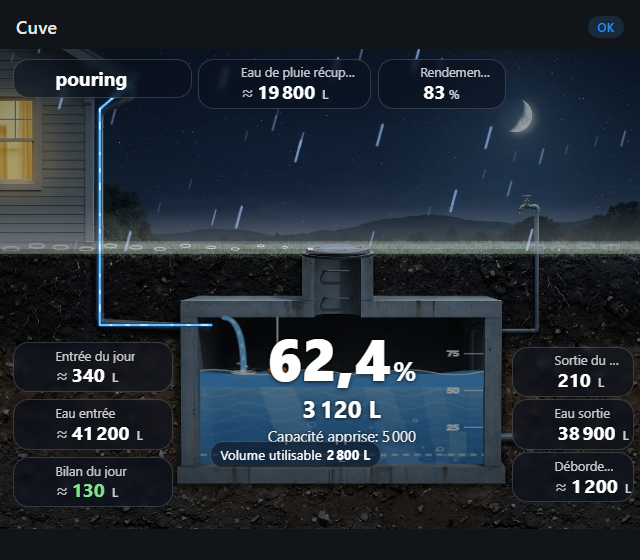
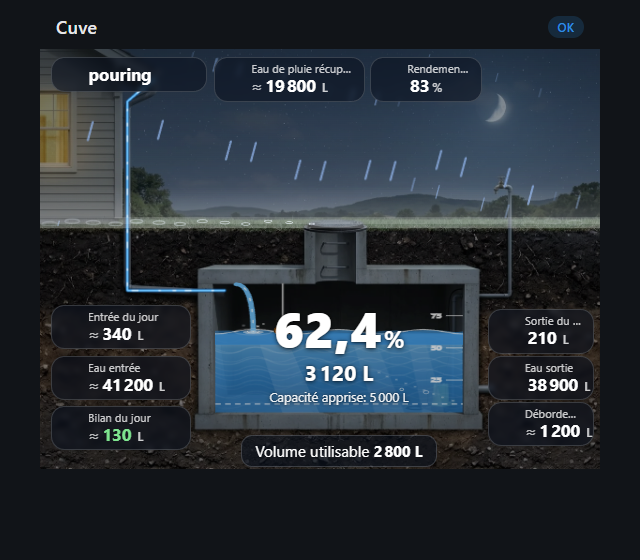
Update usable volume pill, capacity label and screenshots

diff --git a/dist/eco-water-tank-card.js b/dist/eco-water-tank-card.js
@@ -1,6 +1,6 @@
 /* Eco Water Tank card — companion for the eco_water_tank integration. No dependencies. */
 
-const CARD_VERSION = "0.02";
+const CARD_VERSION = "0.04";
 console.info(
   `%c ECO-WATER-TANK-CARD %c v${CARD_VERSION} `,
   "color: white; background: #2f8fe0; font-weight: 700; border-radius: 3px 0 0 3px;",
@@ -80,7 +80,7 @@ ha-card.mid { --tank:#e09a2f; --tank2:#ffd073; --tankd:#7a4a0c; }
 .tint-rain { opacity:0; transition:opacity 1.5s; } .rainy .tint-rain { opacity:.4; }
 .mtn { fill:var(--mtn); } .grass3 { fill:var(--grass3); }
 .night .wg { filter:brightness(.62) saturate(.9); } .dusk .wg { filter:brightness(.88); } .wg { transition:filter 2s; }
-.photo .p-wx { left:2%; top:2%; width:28%; } .photo .p-a { left:31%; top:2%; width:27%; } .photo .p-b { left:59%; top:2%; width:20%; }
+.photo .utag { font-size:2.7cqw; padding:.9cqw 2.4cqw; } .photo .p-wx { left:2%; top:2%; width:28%; } .photo .p-a { left:31%; top:2%; width:27%; } .photo .p-b { left:59%; top:2%; width:20%; }
 .photo .s-l1, .photo .s-l2, .photo .s-l3 { left:2%; width:25%; } .photo .s-l1 { top:61%; } .photo .s-l2 { top:73%; } .photo .s-l3 { top:85%; }
 .photo .s-r1, .photo .s-r2, .photo .s-r3 { left:80%; width:19%; } .photo .s-r1 { top:62%; } .photo .s-r2 { top:73%; } .photo .s-r3 { top:84%; }
 
@@ -170,7 +170,7 @@ ha-card.mid { --tank:#e09a2f; --tank2:#ffd073; --tankd:#7a4a0c; }
 .tankinfo { position:absolute; left:50.5%; top:70%; transform:translate(-50%,-50%); text-align:center; color:#fff;
   text-shadow:0 1px 5px rgba(0,0,0,.7),0 0 2px rgba(0,0,0,.6); pointer-events:none; width:24%; }
 .tankinfo .pc { font-size:9cqw; font-weight:800; line-height:1; } .tankinfo .pc small { font-size:4.2cqw; font-weight:700; margin-left:.4cqw; }
-.tankinfo .vl { font-size:3.8cqw; font-weight:700; margin-top:.8cqw; } .tankinfo .cp { font-size:2.3cqw; opacity:.92; margin-top:.4cqw; }
+.tankinfo .vl { font-size:3.8cqw; font-weight:700; margin-top:.8cqw; } .tankinfo .cp { font-size:2.3cqw; opacity:.92; margin-top:.4cqw; white-space:nowrap; margin-inline:-6cqw; }
 .utag { position:absolute; left:30%; transform:translate(0,-50%); font-size:2.1cqw; padding:.6cqw 1.5cqw; border-radius:2cqw;
   background:rgba(8,16,30,.6); color:#fff; border:1px solid rgba(255,255,255,.18); white-space:nowrap; display:none; }
 .utag b { margin-left:.8cqw; }
@@ -578,7 +578,8 @@ class EcoWaterTankCard extends HTMLElement {
     if (o.photo) {
       const [x, y, w, h] = o.tank;
       Object.assign(root.querySelector(".tankinfo").style, { left: `${x + w / 2}%`, top: `${y + h * 0.55}%` });
-      root.querySelector("[data-utag]").style.left = `${x + 1.5}%`;
+      // usable volume: pill centered just under the tank (below the outer wall, ~90.5% of the picture)
+      Object.assign(root.querySelector("[data-utag]").style, { left: `${x + w / 2}%`, top: "91.8%", transform: "translate(-50%,0)" });
     }
   }
 
@@ -729,7 +730,7 @@ class EcoWaterTankCard extends HTMLElement {
     if (usable != null && vol > 0) {
       const ly = TOP + H * (1 - (p * (1 - usable / vol)) / 100);
       ul.setAttribute("y1", ly.toFixed(1)); ul.setAttribute("y2", ly.toFixed(1)); ul.style.opacity = ".8";
-      ut.style.display = "block"; ut.style.top = `${(this._ty(ly) / (this._photo().photo ? VH : 320) * 100).toFixed(1)}%`;
+      ut.style.display = "block"; if (!this._photo().photo) ut.style.top = `${(ly / 320 * 100).toFixed(1)}%`;
       ut.innerHTML = `${this._name("usable_volume")}<b>${this._fmt(usable)} L</b>`;
     } else { ul.style.opacity = "0"; ut.style.display = "none"; }
 

diff --git a/src/eco-water-tank-card.js b/src/eco-water-tank-card.js
@@ -1,6 +1,6 @@
 /* Eco Water Tank card — companion for the eco_water_tank integration. No dependencies. */
 
-const CARD_VERSION = "0.02";
+const CARD_VERSION = "0.04";
 console.info(
   `%c ECO-WATER-TANK-CARD %c v${CARD_VERSION} `,
   "color: white; background: #2f8fe0; font-weight: 700; border-radius: 3px 0 0 3px;",
@@ -80,7 +80,7 @@ ha-card.mid { --tank:#e09a2f; --tank2:#ffd073; --tankd:#7a4a0c; }
 .tint-rain { opacity:0; transition:opacity 1.5s; } .rainy .tint-rain { opacity:.4; }
 .mtn { fill:var(--mtn); } .grass3 { fill:var(--grass3); }
 .night .wg { filter:brightness(.62) saturate(.9); } .dusk .wg { filter:brightness(.88); } .wg { transition:filter 2s; }
-.photo .p-wx { left:2%; top:2%; width:28%; } .photo .p-a { left:31%; top:2%; width:27%; } .photo .p-b { left:59%; top:2%; width:20%; }
+.photo .utag { font-size:2.7cqw; padding:.9cqw 2.4cqw; } .photo .p-wx { left:2%; top:2%; width:28%; } .photo .p-a { left:31%; top:2%; width:27%; } .photo .p-b { left:59%; top:2%; width:20%; }
 .photo .s-l1, .photo .s-l2, .photo .s-l3 { left:2%; width:25%; } .photo .s-l1 { top:61%; } .photo .s-l2 { top:73%; } .photo .s-l3 { top:85%; }
 .photo .s-r1, .photo .s-r2, .photo .s-r3 { left:80%; width:19%; } .photo .s-r1 { top:62%; } .photo .s-r2 { top:73%; } .photo .s-r3 { top:84%; }
 
@@ -170,7 +170,7 @@ ha-card.mid { --tank:#e09a2f; --tank2:#ffd073; --tankd:#7a4a0c; }
 .tankinfo { position:absolute; left:50.5%; top:70%; transform:translate(-50%,-50%); text-align:center; color:#fff;
   text-shadow:0 1px 5px rgba(0,0,0,.7),0 0 2px rgba(0,0,0,.6); pointer-events:none; width:24%; }
 .tankinfo .pc { font-size:9cqw; font-weight:800; line-height:1; } .tankinfo .pc small { font-size:4.2cqw; font-weight:700; margin-left:.4cqw; }
-.tankinfo .vl { font-size:3.8cqw; font-weight:700; margin-top:.8cqw; } .tankinfo .cp { font-size:2.3cqw; opacity:.92; margin-top:.4cqw; }
+.tankinfo .vl { font-size:3.8cqw; font-weight:700; margin-top:.8cqw; } .tankinfo .cp { font-size:2.3cqw; opacity:.92; margin-top:.4cqw; white-space:nowrap; margin-inline:-6cqw; }
 .utag { position:absolute; left:30%; transform:translate(0,-50%); font-size:2.1cqw; padding:.6cqw 1.5cqw; border-radius:2cqw;
   background:rgba(8,16,30,.6); color:#fff; border:1px solid rgba(255,255,255,.18); white-space:nowrap; display:none; }
 .utag b { margin-left:.8cqw; }
@@ -578,7 +578,8 @@ class EcoWaterTankCard extends HTMLElement {
     if (o.photo) {
       const [x, y, w, h] = o.tank;
       Object.assign(root.querySelector(".tankinfo").style, { left: `${x + w / 2}%`, top: `${y + h * 0.55}%` });
-      root.querySelector("[data-utag]").style.left = `${x + 1.5}%`;
+      // usable volume: pill centered just under the tank (below the outer wall, ~90.5% of the picture)
+      Object.assign(root.querySelector("[data-utag]").style, { left: `${x + w / 2}%`, top: "91.8%", transform: "translate(-50%,0)" });
     }
   }
 
@@ -729,7 +730,7 @@ class EcoWaterTankCard extends HTMLElement {
     if (usable != null && vol > 0) {
       const ly = TOP + H * (1 - (p * (1 - usable / vol)) / 100);
       ul.setAttribute("y1", ly.toFixed(1)); ul.setAttribute("y2", ly.toFixed(1)); ul.style.opacity = ".8";
-      ut.style.display = "block"; ut.style.top = `${(this._ty(ly) / (this._photo().photo ? VH : 320) * 100).toFixed(1)}%`;
+      ut.style.display = "block"; if (!this._photo().photo) ut.style.top = `${(ly / 320 * 100).toFixed(1)}%`;
       ut.innerHTML = `${this._name("usable_volume")}<b>${this._fmt(usable)} L</b>`;
     } else { ul.style.opacity = "0"; ut.style.display = "none"; }
 
